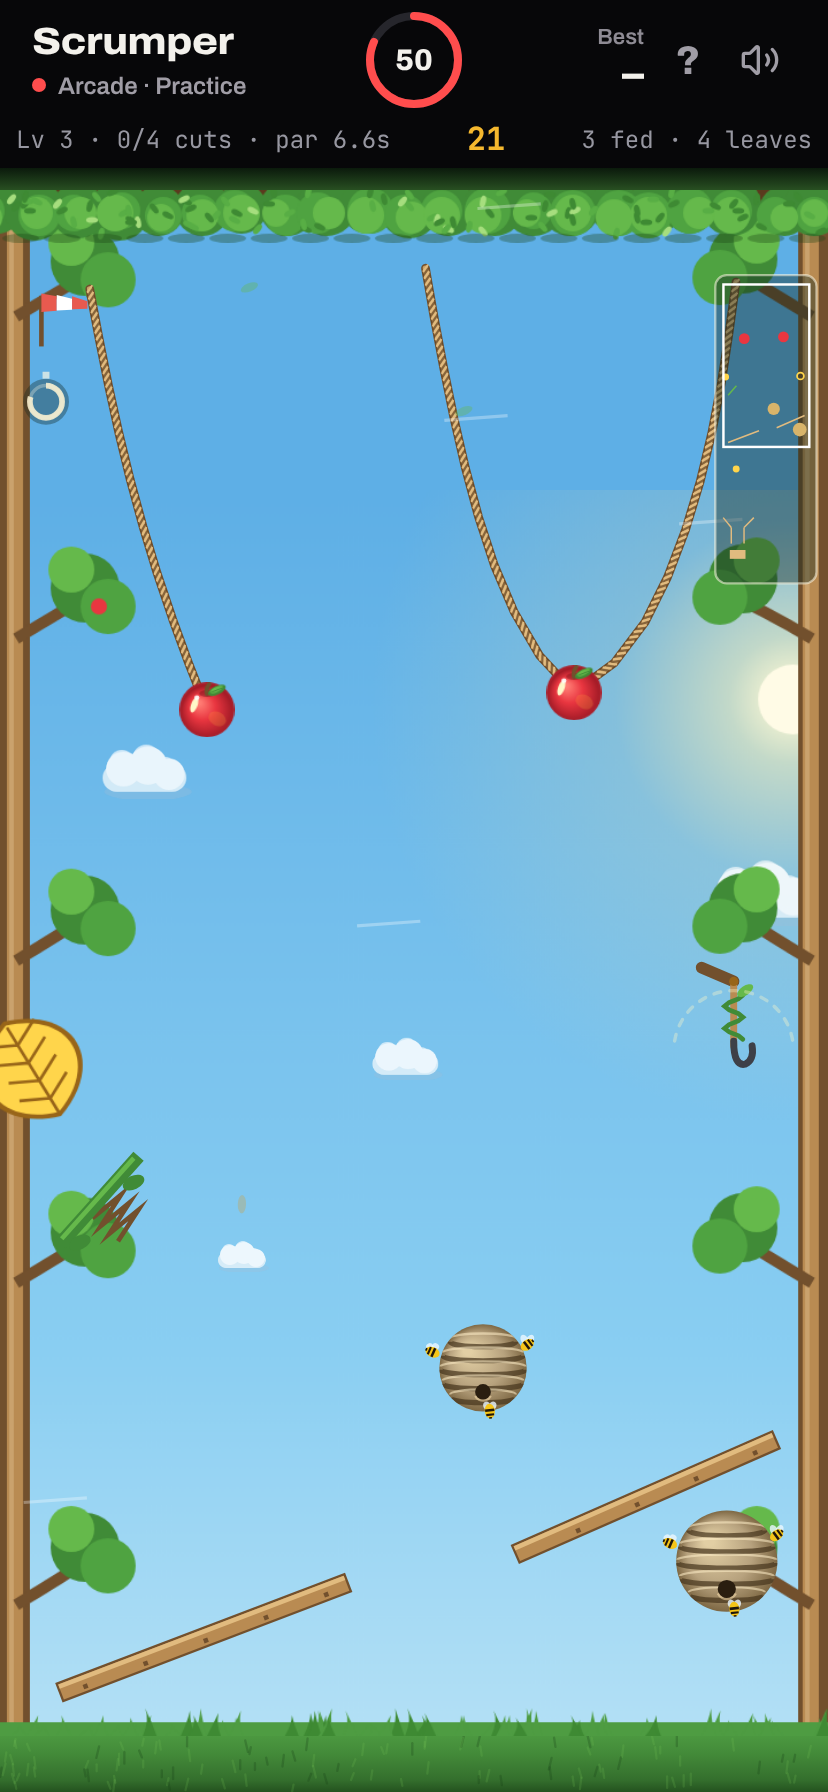
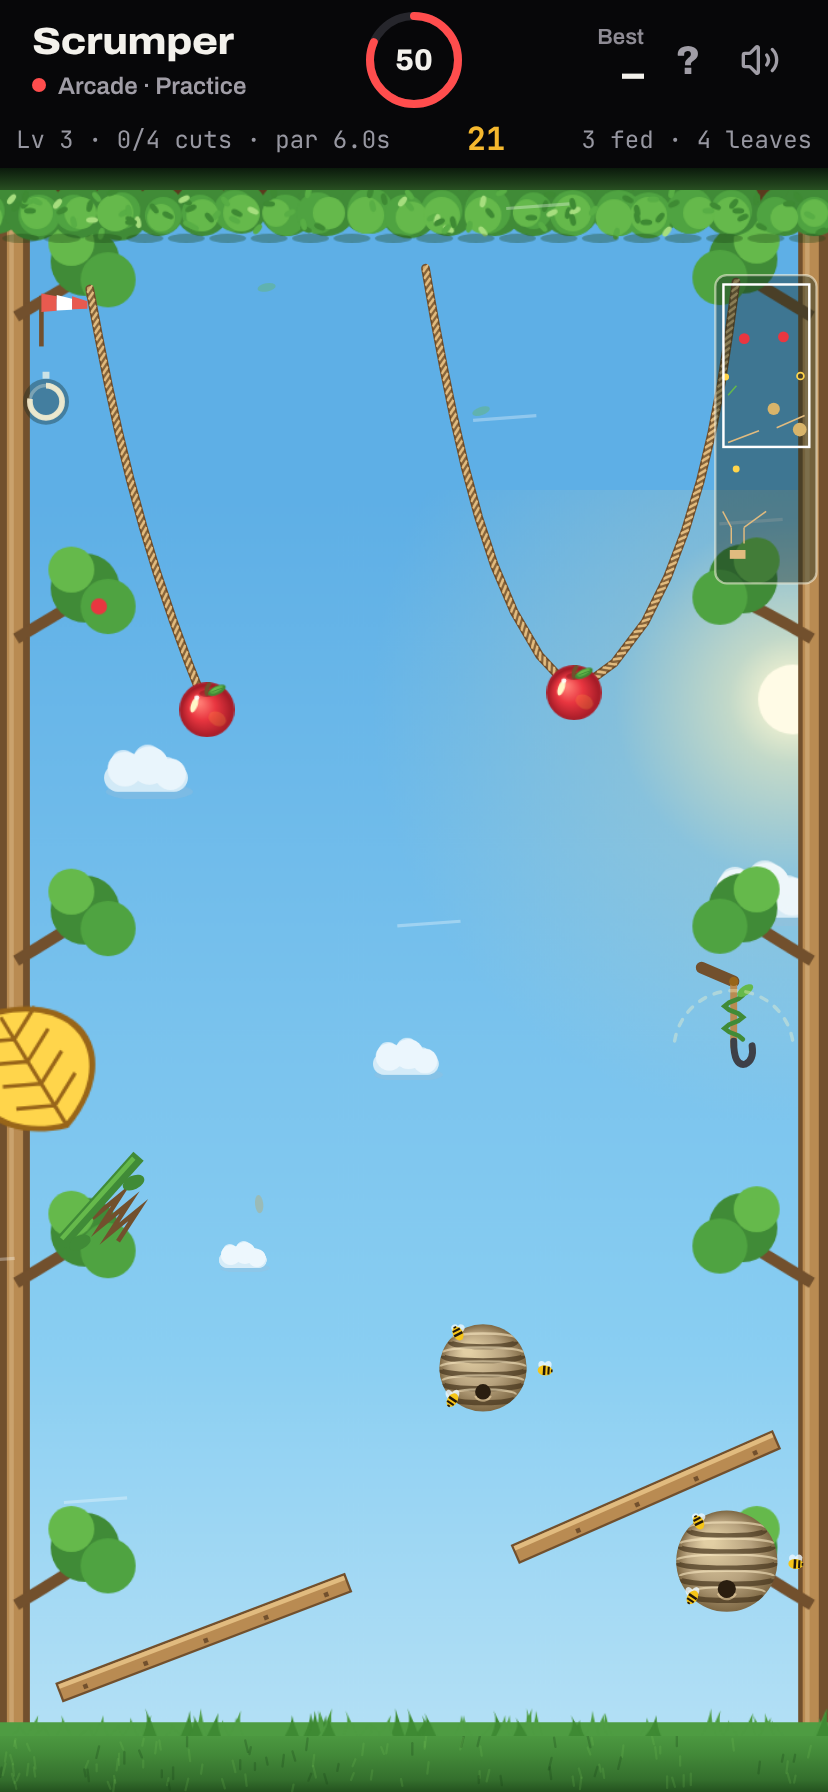
Scrumper snipRev 11 phase 2: course bot on #175's levels (flawless plays the stored perfect plans; steady window middles, roomiest known plan), Tuning E's live-arena line, screenshots retaken, notes with the measured bar
Claude-Session: https://claude.ai/code/session_01UG3aTDJSHREQsEn2vXbrXq

diff --git a/scripts/arcade-skill-bands/bots/snip.ts b/scripts/arcade-skill-bands/bots/snip.ts
@@ -447,11 +447,15 @@ function courseBot({ game, seed, human }: Parameters<SkillBot>[0]): ReturnType<S
   let lastWidth = 0;
   const timeShape = (from: SnipState, shape: Plan, lo: number, span: number, best: boolean, stepT = 3): Plan | null => {
     const first = shape[0]![1];
+    const tried = new Map<number, boolean>();
     const ok = (d: number) => {
+      const hit = tried.get(d);
+      if (hit !== undefined) return hit;
       const plan = shape.map(([r, at]) => [r, at + d] as [number, number]);
-      if (plan.some(([, at]) => at > SNIP_X_LEVEL_TICKS - 2)) return false;
-      const res = tryPlan(from, plan);
-      return res.all && (!best || (res.par && res.two));
+      const res = plan.some(([, at]) => at > SNIP_X_LEVEL_TICKS - 2) ? null : tryPlan(from, plan);
+      const out = !!res && res.all && (!best || (res.par && res.two));
+      tried.set(d, out);
+      return out;
     };
     const d0 = lo - first;
     // The windows (runs of start shifts that work) from the first one the player sees to as far as their
@@ -474,8 +478,11 @@ function courseBot({ game, seed, human }: Parameters<SkillBot>[0]): ReturnType<S
     let { start, end } = pick;
     for (let k = 1; k < stepT && ok(start - 1); k++) start -= 1;
     for (let k = 1; k < stepT && ok(end + 1); k++) end += 1;
-    const mid = best && eager ? Math.min(Math.round((start + end) / 2), start + stepT) : Math.round((start + end) / 2);
-    lastWidth = end - start + 1;
+    // The scan steps stepT ticks and a swing's windows are ragged, so centre on a run of ticks that all work
+    // (#175's steadyMid); a player chasing the par time takes the earliest tick with a working tick either side.
+    let [mid, width] = steadyMid(ok, start, end, d0, stepT);
+    if (best && eager) for (let t = start; t < mid; t++) if (ok(t - 1) && ok(t) && ok(t + 1)) { mid = t; break; }
+    lastWidth = width;
     return shape.map(([r, at]) => [r, at + mid] as [number, number]);
   };
 
@@ -543,6 +550,32 @@ function courseBot({ game, seed, human }: Parameters<SkillBot>[0]): ReturnType<S
       wantBest = false;
       shape = proof.win.map(([r, at]) => [r, at] as [number, number]);
       timed = timeShape(s, shape, lo, 150, false);
+    }
+    // Playing it safe on a tight course: a patient player weighs the deal's other known ways down (its stored
+    // plans) and takes the one with the roomiest window.
+    if (!wantBest && proof && PATIENCE[tier] > 0 && (!timed || lastWidth < 2 * MIN_WINDOW[tier])) {
+      let pick = timed;
+      let width = timed ? lastWidth : 0;
+      for (const alt of [proof.win, ...Object.values(proof.best)]) {
+        const t = timeShape(s, alt.map(([r, at]) => [r, at] as [number, number]), lo, 150, false);
+        if (t && lastWidth > width) {
+          pick = t;
+          width = lastWidth;
+        }
+      }
+      timed = pick;
+      lastWidth = width;
+    }
+    // No window from when they are ready: look further on, then try the deal's other stored plans (a player who
+    // knows the course has more than one way down it), before cutting on an untested plan.
+    if (!timed && proof) {
+      for (const alt of [proof.win, ...Object.values(proof.best)]) {
+        timed = timeShape(s, alt.map(([r, at]) => [r, at] as [number, number]), lo, 300, false);
+        if (timed) {
+          wantBest = false;
+          break;
+        }
+      }
     }
     const plan = timed ?? shape.map(([r, at]) => [r, at + Math.max(0, lo - shape[0]![1])] as [number, number]);
     strokes = toStrokes(plan);

diff --git a/scripts/arcade-tuning-e-check.ts b/scripts/arcade-tuning-e-check.ts
@@ -179,7 +179,7 @@ section("New rounds carry the Tuning E stamps; one world per stored revision");
   ok(snipWorldHFor(SNIP_REV_TALL) === SNIP_TALL_H && SNIP_TALL_H === 640 && snipWorldHFor(SNIP_REV_BAND) === SNIP_H, "Scrumper: 360 × 640 on snipRev 5, 360 × 560 before");
   // The arena table (presentation-geometry) uses the worlds rooms deal today.
   // Hover: hoverRev 9's 727-high world since the 200 expansion (hover-x200-check).
-  ok(ARCADE_FX_SPECS.hover.height === hoverWorldHFor(generateHover().hoverRev) && hoverWorldHFor(generateHover().hoverRev) >= 727 && ARCADE_FX_SPECS.skyline.height === skylineWorldHFor(generateSkyline().skylineRev) && skylineWorldHFor(generateSkyline().skylineRev) >= SKYLINE_TALL_H && ARCADE_FX_SPECS.snake.height === SNAKE_V9_H && ARCADE_FX_SPECS.snake.width === SNAKE_V9_WORLD_W && SNAKE_V9_H > SNAKE_TALL_H && ARCADE_FX_SPECS.snip.height === SNIP_TALL_H, "the live arena sizes are the taller worlds (Meteor: snakeRev 9's bigger field since expansion E2; Hover: hoverRev 9's since the 200 expansion)");
+  ok(ARCADE_FX_SPECS.hover.height === hoverWorldHFor(generateHover().hoverRev) && hoverWorldHFor(generateHover().hoverRev) >= 727 && ARCADE_FX_SPECS.skyline.height === skylineWorldHFor(generateSkyline().skylineRev) && skylineWorldHFor(generateSkyline().skylineRev) >= SKYLINE_TALL_H && ARCADE_FX_SPECS.snake.height === SNAKE_V9_H && ARCADE_FX_SPECS.snake.width === SNAKE_V9_WORLD_W && SNAKE_V9_H > SNAKE_TALL_H && ARCADE_FX_SPECS.snip.height === snipWorldHFor(generateSnip().snipRev) && snipWorldHFor(generateSnip().snipRev) > SNIP_TALL_H, "the live arena sizes are the taller worlds (Meteor: snakeRev 9's bigger field since expansion E2; Hover: hoverRev 9's since the 200 expansion; Scrumper: snipRev 11's course view)");
   // Effects follow the state's own world; old states keep the old spec object.
   const states = {
     hover: [hoverGameFor(HOVER_REV_TUNEC).init(5), hoverGameFor(HOVER_REV_TALL).init(5)],

diff --git a/docs/expansions/x200-snip.md b/docs/expansions/x200-snip.md
@@ -257,3 +257,67 @@ So with any monotone scoring, elite's median is at most near-perfect's p90. "Eli
 come from play, not pay: the elite bot loses a level as often as the near-perfect one, because the perfect-level
 windows are 1–6 ticks wide. The shipped scoring is unchanged (first attempt above), so I didn't take a second fresh
 measurement; the fresh numbers above stand.
+
+## Phase 1 and phase 2 (26 Oct 2026, evening): forgiving cut timing, Session A's bots
+
+**Phase 1: cut timing made more forgiving.** Same stamp, since snipRev 11 was never dealt outside an unmerged PR.
+- *Wider chutes*: each course's two chute boards over the basket reach up to 50 px further out, and 25 px higher.
+  Each board goes as far as it can while staying a fruit's width (24 px) from every other piece, nest, leaf, peg and
+  ring (`scripts/snip-x200-chutes.ts`). 59 of the 72 boards got the full 50; the rest 0–25.
+- *Larger leaves*: leaves are now drawn at 60 px (they were 48) and taken at `SNIP_X_STAR_REACH` 40 (it was 24).
+  That is a fruit touching the drawn leaf.
+- *Re-proved*: `scripts/snip-x200-plans.ts` now also re-finds every deal's win plan and drops a golden choice that
+  has no perfect plan. All 324 deals × golden choices still have plans; no golden choice was dropped. Par times
+  were rewritten (5.0–9.0 s), the recorded runs re-recorded, and the ceiling proof still holds: 200 on every bank
+  deal and on all 260 tuning and fresh seeds.
+- *Effect* (start-time shifts of ±8 ticks around the stored plans, wind preset 0, all courses): plans that still
+  feed every fruit went from 10.3 to 11.3 of 17; plans that stay perfect from 6.0 to 7.8 of 17. Deals with fewer
+  than 5 perfect shifts went from 37 of 108 to 28.
+
+**Phase 2: #175's fixed bots** (merged at d74da894).
+- `bots/snip.ts` keeps #175's old-stamp bot exactly and adds the snipRev 11 course bot, keyed on all seven levels.
+  Flawless plays each level's stored perfect plan.
+- Competence fixes to the course bot:
+  - #175's `steadyMid`: centre on a run of ticks that all work. The 3-tick scan used to land on failing ticks
+    inside ragged windows, which was most of the elite bot's lost levels.
+  - Weigh the deal's other stored plans for the roomiest window.
+  - Look further on before cutting on an untested plan.
+
+Measured on the tuning seeds (0–59). "Before" is the old stamp (snipRev 9) on the same fixed bots:
+
+| Level | Before: median (p90) | snipRev 11 now: median / p90 |
+|---|---|---|
+| Weak | 51 (80) | 65.5 / 110 |
+| Average | 73.5 (100) | 94 / 153 |
+| Good | 97 (123) | 132.5 / 168 |
+| Great | 120 (130) | 162.5 / 185 |
+| Near-perfect | 124 (144) | 164.5 / 187 |
+| Elite | 130 (145) | 173 / 190 |
+| Flawless | 147 (149) | 200 / 200 (min 200) |
+
+No zero scores at any level. Random play: median 0, best 12.
+
+**The bar is still not met.** The forgiving timing lifts every level, so the skill levels bunch at the top:
+
+| Level | Units, median | Units, p90 | Levels cleared, median |
+|---|---|---|---|
+| Good | 102 | 118 | 5 |
+| Great | 111 | 120 | 5 |
+| Near-perfect | 111 | 120 | 5 |
+| Elite | 114 | 120 | 5 |
+
+The only clear separation at the top is the par-time credit (median of six levels: near-perfect 1.7, elite 2.15;
+p90 2.6 vs 3.8).
+
+Refitting on these runs: 12 structures (par margin 60 or 90; linear or squared credit; four weight splits), each
+with strictly rising curves (0.4–3.5 a unit, 0.03–0.3 a raw tenth).
+- Good stays at 122–129 against the target of about 97 ± 10 %.
+- Near-perfect sits at 157.5–162 / 184–187.
+- Elite sits at 170.5–175 / 188–193.
+
+To put good back at 97 and near-perfect at 165, the base would have to jump about 4 points a unit between 102 and
+111 units (a cliff). And near-perfect's top-decile runs (units 120, all six levels) still dominate elite's median
+run (units 114, five levels).
+
+The shipped scoring is unchanged (`SNIP_V11_BAND_CURVE` and `SNIP_X_SKILL_PAY` as above). The fresh seeds were not
+measured again: the tuning seeds already miss the bar on good, near-perfect and elite.
